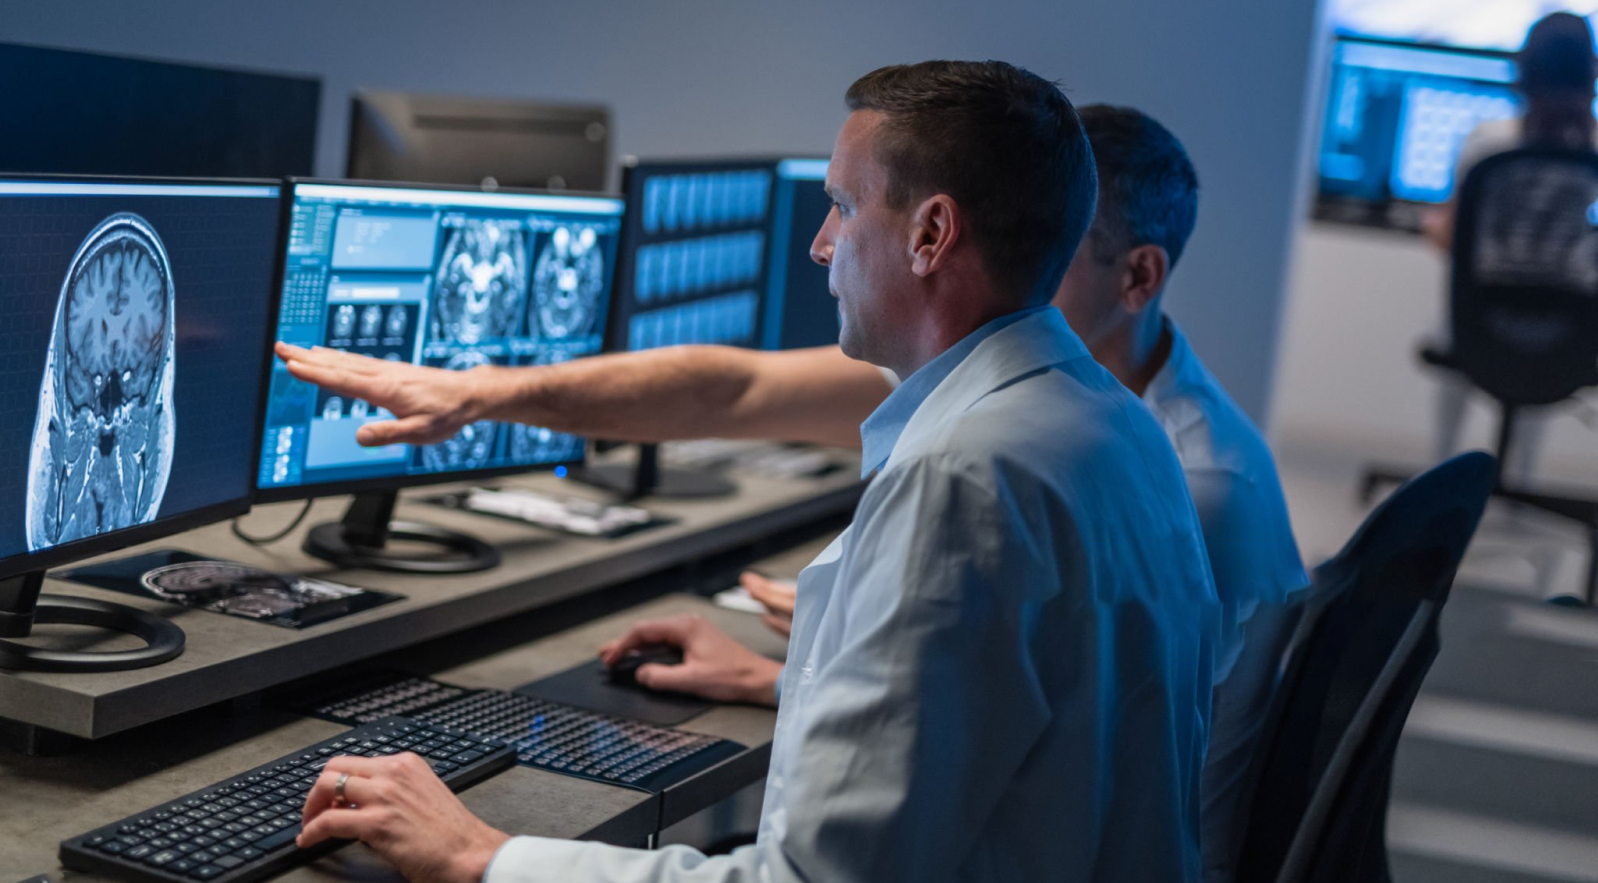
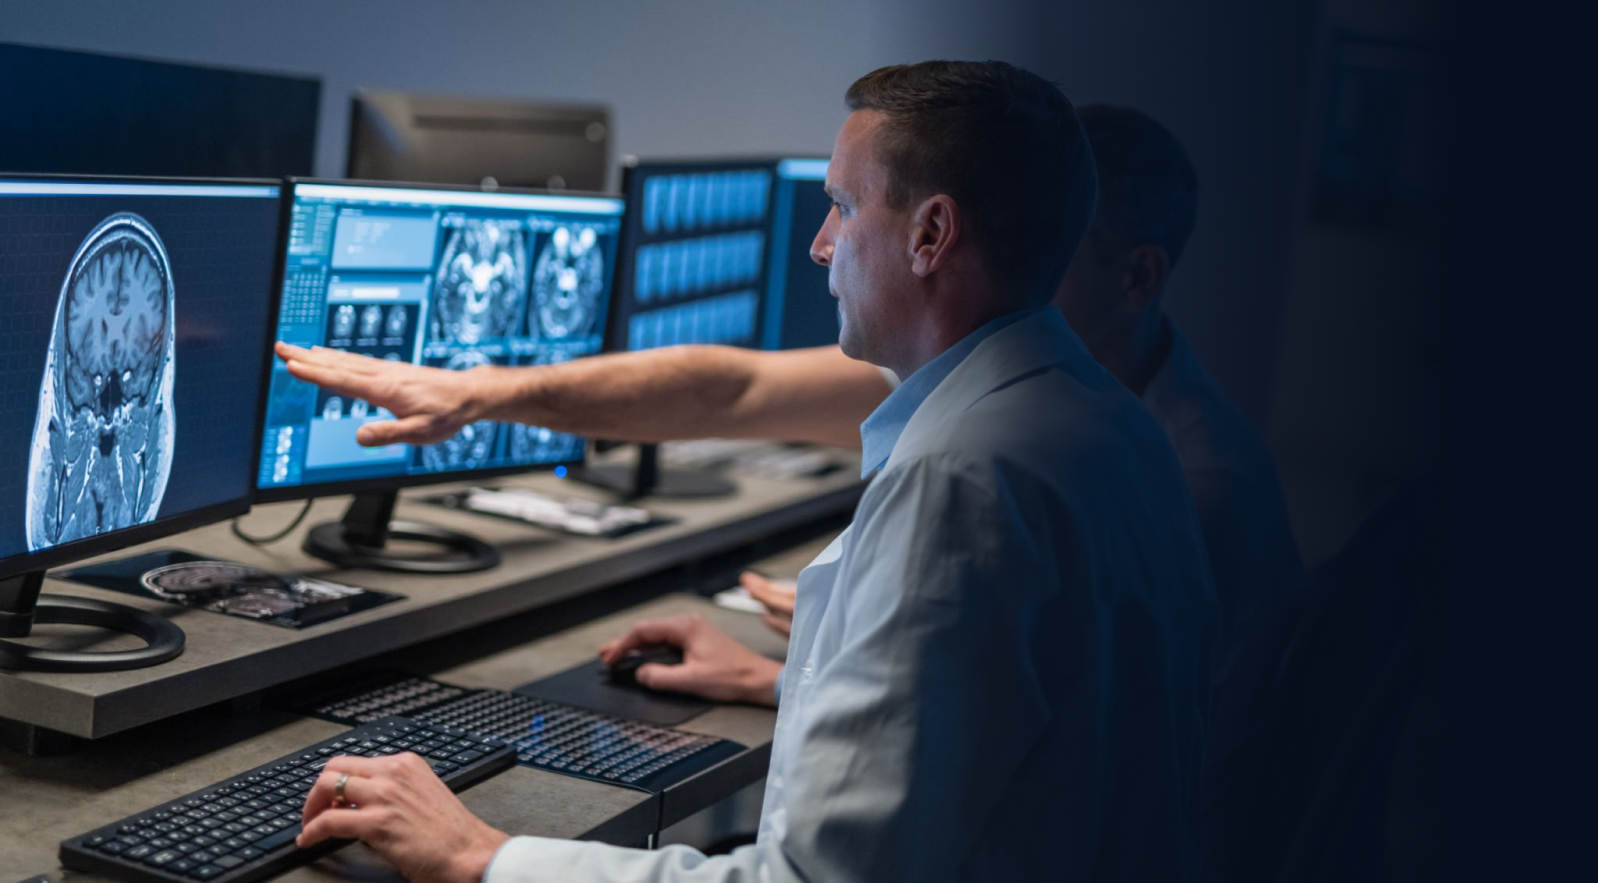
style: desktop introduction

Changed region(s): [[0.5519, 0.0, 1.0, 1.0], [0.5519, 0.214, 0.6133, 0.3058]]

diff --git a/src/components/home/Introduction.tsx b/src/components/home/Introduction.tsx
@@ -5,58 +5,109 @@ const Introduction = () => {
 
 	return (
 		<>
-				<div
-					className='pt-[5.5rem] pb-[1.5rem] bg-cardio-computer text-white'
-					id='introduction'>
-					<div className='pt-6 px-8 text-center flex flex-col gap-6'>
-						<h2 className='text-2xl font-[600]'>Présentation</h2>
-						<div className='flex flex-col gap-8 font-thin tracking-wide '>
-							<p>
-								Véritable outil de{' '}
-								<span className='font-semibold'>
-									service académique
-								</span>{' '}
-								de soutien à la recherche clinique, la plateforme{' '}
-								<span className='font-semibold'>MIRACL</span>
-								<span className='text-secondary font-semibold'>
-									.ai{' '}
-								</span>
-								se positionne comme une passerelle essentielle entre les
-								<span className='font-semibold px-1'>
-									chercheurs
-								</span>{' '}
-								du monde académique, les
-								<span className='font-semibold px-1'>ingénieurs</span>
-								spécialisés en intelligence artificielle et l'
-								<span className='font-semibold'>industrie.</span>
-							</p>
-							<p>
-								<span className='font-semibold'>MIRACL</span>
-								<span className='font-semibold text-secondary'>
-									.ai
-								</span>{' '}
-								est constituée d’une
-								<span className='font-semibold px-1'>
-									large base de données multimodales labellisées
-								</span>
-								par des experts avec des cohortes prospectives et
-								rétrospectives de patients présentant différentes
-								pathologies cardiaques : amylose, myocardite, syndrome
-								coronaire aigu, cardiomyopathies, etc.
-							</p>
-							<p>
-								Cette base de données unique permet de
-								<span className='font-semibold px-1'>
-									développer de nouveaux outils innovants
-								</span>
-								pour améliorer le diagnostic et l’évaluation pronostique
-								des patients pour une prise en charge toujours plus
-								personnalisée.
-							</p>
-						</div>
+			<div
+				className='pt-[5.5rem] pb-[1.5rem] text-white bg-cardio-computer-mobile md:hidden'
+				id='introduction'>
+				<div className='pt-6 px-8 text-center flex flex-col gap-6'>
+					<h2 className='text-2xl font-[600]'>Présentation</h2>
+					<div className='flex flex-col gap-8 font-thin tracking-wide '>
+						<p>
+							Véritable outil de{' '}
+							<span className='font-semibold'>
+								service académique
+							</span>{' '}
+							de soutien à la recherche clinique, la plateforme{' '}
+							<span className='font-semibold'>MIRACL</span>
+							<span className='text-secondary font-semibold'>
+								.ai{' '}
+							</span>
+							se positionne comme une passerelle essentielle entre les
+							<span className='font-semibold px-1'>
+								chercheurs
+							</span>{' '}
+							du monde académique, les
+							<span className='font-semibold px-1'>ingénieurs</span>
+							spécialisés en intelligence artificielle et l'
+							<span className='font-semibold'>industrie.</span>
+						</p>
+						<p>
+							<span className='font-semibold'>MIRACL</span>
+							<span className='font-semibold text-secondary'>
+								.ai
+							</span>{' '}
+							est constituée d’une
+							<span className='font-semibold px-1'>
+								large base de données multimodales labellisées
+							</span>
+							par des experts avec des cohortes prospectives et
+							rétrospectives de patients présentant différentes
+							pathologies cardiaques : amylose, myocardite, syndrome
+							coronaire aigu, cardiomyopathies, etc.
+						</p>
+						<p>
+							Cette base de données unique permet de
+							<span className='font-semibold px-1'>
+								développer de nouveaux outils innovants
+							</span>
+							pour améliorer le diagnostic et l’évaluation pronostique
+							des patients pour une prise en charge toujours plus
+							personnalisée.
+						</p>
 					</div>
 				</div>
-		
+			</div>
+			<div
+				className='pt-[5rem] h-screen text-white bg-cardio-computer-desktop justify-end hidden md:flex'
+				id='introduction'>
+				<div className='px-8 text-center w-[35%] mt-32 flex flex-col gap-6'>
+					<h2 className='text-2xl font-[600]'>Présentation</h2>
+					<div className='flex flex-col gap-8 font-thin tracking-wide '>
+						<p>
+							Véritable outil de{' '}
+							<span className='font-semibold'>
+								service académique
+							</span>{' '}
+							de soutien à la recherche clinique, la plateforme{' '}
+							<span className='font-semibold'>MIRACL</span>
+							<span className='text-secondary font-semibold'>
+								.ai{' '}
+							</span>
+							se positionne comme une passerelle essentielle entre les
+							<span className='font-semibold px-1'>
+								chercheurs
+							</span>{' '}
+							du monde académique, les
+							<span className='font-semibold px-1'>ingénieurs</span>
+							spécialisés en intelligence artificielle et l'
+							<span className='font-semibold'>industrie.</span>
+						</p>
+						<p>
+							<span className='font-semibold'>MIRACL</span>
+							<span className='font-semibold text-secondary'>
+								.ai
+							</span>{' '}
+							est constituée d’une
+							<span className='font-semibold px-1'>
+								large base de données multimodales labellisées
+							</span>
+							par des experts avec des cohortes prospectives et
+							rétrospectives de patients présentant différentes
+							pathologies cardiaques : amylose, myocardite, syndrome
+							coronaire aigu, cardiomyopathies, etc.
+						</p>
+						<p>
+							Cette base de données unique permet de
+							<span className='font-semibold px-1'>
+								développer de nouveaux outils innovants
+							</span>
+							pour améliorer le diagnostic et l’évaluation pronostique
+							des patients pour une prise en charge toujours plus
+							personnalisée.
+						</p>
+					</div>
+				</div>
+			</div>
+
 		</>
 	);
 };

diff --git a/src/app/globals.css b/src/app/globals.css
@@ -1,21 +1,24 @@
 @tailwind base;
 @tailwind components;
 @tailwind utilities;
- 
 
 @font-face {
 	font-family: 'GeneralSansVariable';
 	src: url('/fonts/GeneralSansVariable.ttf');
 }
 
-.bg-cardio-computer {
+.bg-cardio-computer-mobile {
 	background-image: url('/bg-cardio-computer-mobile.png');
 	background-size: fill;
 	background-position: right;
 }
 
+.bg-cardio-computer-desktop {
+	background-image: url('/bg-cardio-computer-desktop.png');
+	background-size: 100%;
+}
 
-.bg-cardio-irm {
+.bg-cardio-irm-mobile {
 	background-image: url('/bg-cardio-irm-mobile.png');
 	background-size: cover;
 	background-position: center;

diff --git a/src/components/home/Objectives.tsx b/src/components/home/Objectives.tsx
@@ -5,7 +5,7 @@ import Objective from './Objective';
 
 const Objectives = () => {
 	return (
-		<div className='bg-cardio-irm text-black justify-between py-6 px-12 flex flex-col gap-4 text-' id='objectives'>
+		<div className='bg-cardio-irm-mobile text-black justify-between py-6 px-12 flex flex-col gap-4 text-' id='objectives'>
 			<h2 className='text-2xl font-[600] text-center'>Nos objectifs</h2>
 
 			<div className='h-full flex flex-col py-5 gap-4 justify-between'>
